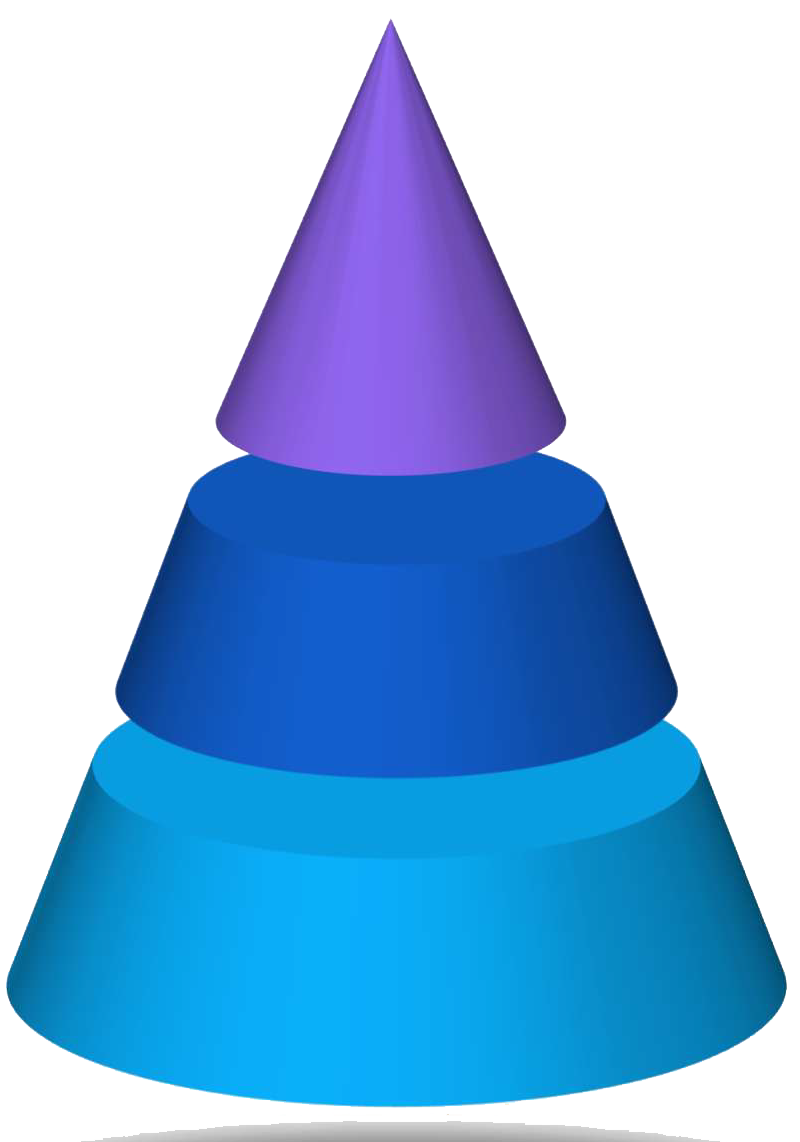
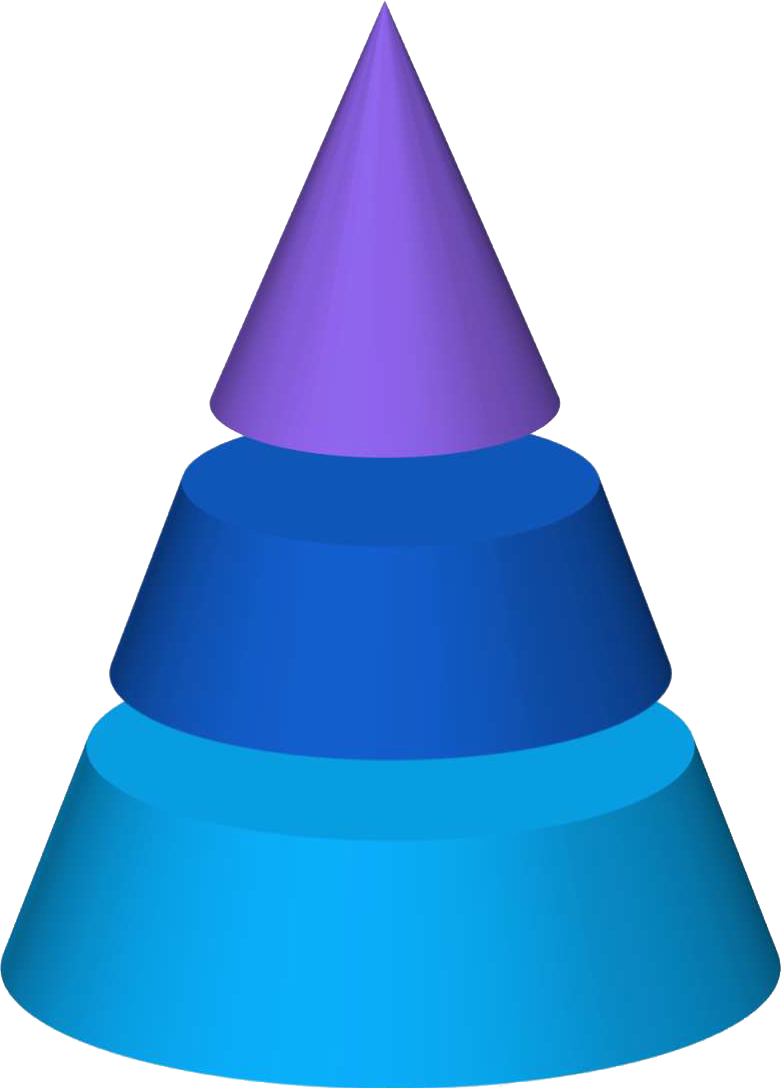
feat(rnd): transparent capability pyramid with ambient aura and expanded sizing

diff --git a/rnd-hi.html b/rnd-hi.html
@@ -6110,6 +6110,12 @@
       color: var(--medium-gray);
       margin: 0;
     }
+    @media (max-width: 900px) {
+      .vik-pyramid-row {
+        grid-template-columns: 1fr !important;
+        gap: 32px !important;
+      }
+    }
   </style>
 
   <section class="focus-areas page-section" id="rnd" data-section="rnd">
@@ -6182,9 +6188,10 @@
 
   <section class="page-section" style="padding: 56px 0 64px; background: #fff;">
     <div class="container" style="max-width: 1180px;">
-      <div class="vik-pyramid-row" style="display: grid; grid-template-columns: minmax(300px, 1.05fr) minmax(320px, 1fr); gap: 48px; align-items: center;">
-        <div style="text-align: center; display: flex; align-items: center; justify-content: center;">
-          <img src="assets/vikasith/pyramid.png" alt="Vikasith capability pyramid" style="width: 100%; max-width: 460px; height: auto; filter: drop-shadow(0 18px 36px rgba(0,0,0,0.14));">
+      <div class="vik-pyramid-row" style="display: grid; grid-template-columns: minmax(340px, 1.15fr) minmax(320px, 1fr); gap: 48px; align-items: center;">
+        <div class="vik-pyramid-wrap" style="position: relative; text-align: center; display: flex; flex-direction: column; align-items: center; justify-content: center; padding: 24px 16px; background: radial-gradient(ellipse at 50% 50%, rgba(61, 92, 173, 0.08) 0%, rgba(14, 165, 233, 0.03) 45%, transparent 72%); border-radius: 24px;">
+          <img src="assets/vikasith/pyramid.png?v=2" alt="Vikasith capability pyramid" style="width: 100%; max-width: 520px; height: auto; display: block; filter: drop-shadow(0 16px 32px rgba(15, 23, 42, 0.16)); transform: translateZ(0);">
+          <div style="width: 72%; height: 16px; margin: -10px auto 0; background: radial-gradient(ellipse at center, rgba(15, 23, 42, 0.22) 0%, rgba(15, 23, 42, 0.04) 55%, transparent 75%); border-radius: 50%; filter: blur(3px);" aria-hidden="true"></div>
         </div>
         <div>
           <h2 style="font-size: clamp(24px, 3vw, 34px); font-weight: 800; color: #12263a; margin: 0 0 20px; line-height: 1.25;">

diff --git a/rnd.html b/rnd.html
@@ -6108,6 +6108,12 @@
       color: var(--medium-gray);
       margin: 0;
     }
+    @media (max-width: 900px) {
+      .vik-pyramid-row {
+        grid-template-columns: 1fr !important;
+        gap: 32px !important;
+      }
+    }
   </style>
 
   <section class="focus-areas page-section" id="rnd" data-section="rnd">
@@ -6180,9 +6186,10 @@
 
   <section class="page-section" style="padding: 56px 0 64px; background: #fff;">
     <div class="container" style="max-width: 1180px;">
-      <div class="vik-pyramid-row" style="display: grid; grid-template-columns: minmax(300px, 1.05fr) minmax(320px, 1fr); gap: 48px; align-items: center;">
-        <div style="text-align: center; display: flex; align-items: center; justify-content: center;">
-          <img src="assets/vikasith/pyramid.png" alt="Vikasith capability pyramid" style="width: 100%; max-width: 460px; height: auto; filter: drop-shadow(0 18px 36px rgba(0,0,0,0.14));">
+      <div class="vik-pyramid-row" style="display: grid; grid-template-columns: minmax(340px, 1.15fr) minmax(320px, 1fr); gap: 48px; align-items: center;">
+        <div class="vik-pyramid-wrap" style="position: relative; text-align: center; display: flex; flex-direction: column; align-items: center; justify-content: center; padding: 24px 16px; background: radial-gradient(ellipse at 50% 50%, rgba(61, 92, 173, 0.08) 0%, rgba(14, 165, 233, 0.03) 45%, transparent 72%); border-radius: 24px;">
+          <img src="assets/vikasith/pyramid.png?v=2" alt="Vikasith capability pyramid" style="width: 100%; max-width: 520px; height: auto; display: block; filter: drop-shadow(0 16px 32px rgba(15, 23, 42, 0.16)); transform: translateZ(0);">
+          <div style="width: 72%; height: 16px; margin: -10px auto 0; background: radial-gradient(ellipse at center, rgba(15, 23, 42, 0.22) 0%, rgba(15, 23, 42, 0.04) 55%, transparent 75%); border-radius: 50%; filter: blur(3px);" aria-hidden="true"></div>
         </div>
         <div>
           <h2 style="font-size: clamp(24px, 3vw, 34px); font-weight: 800; color: #12263a; margin: 0 0 20px; line-height: 1.25;">
